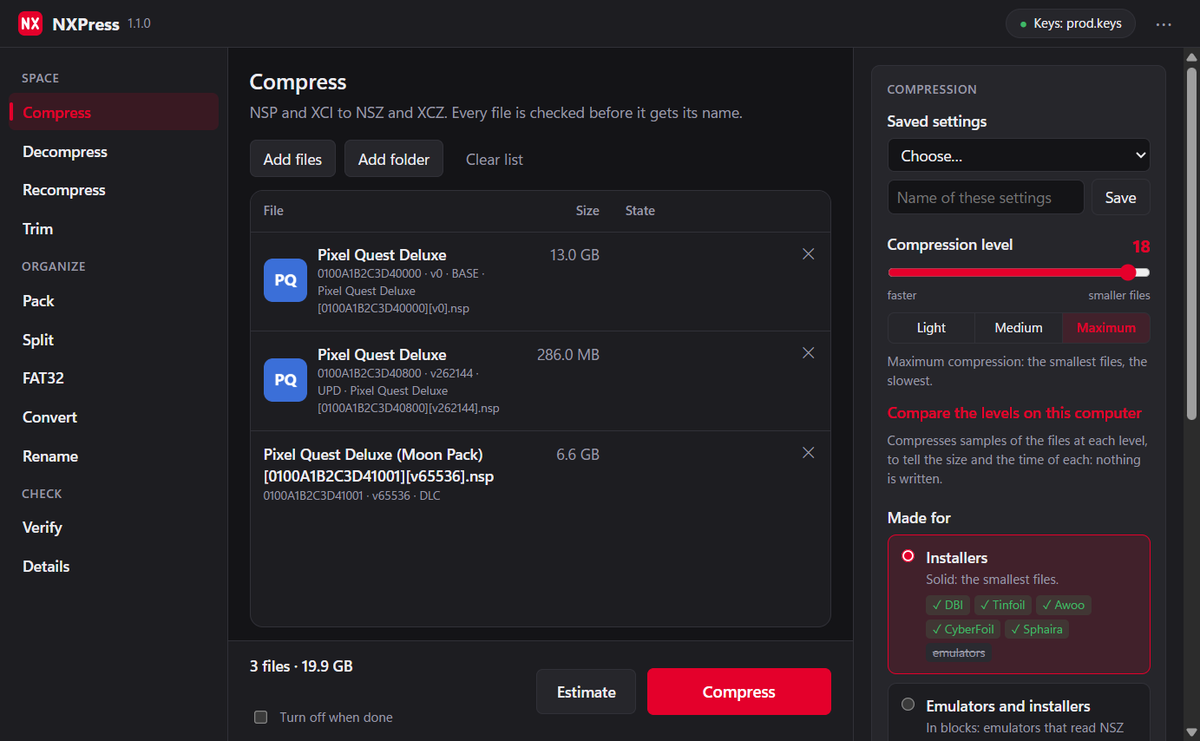
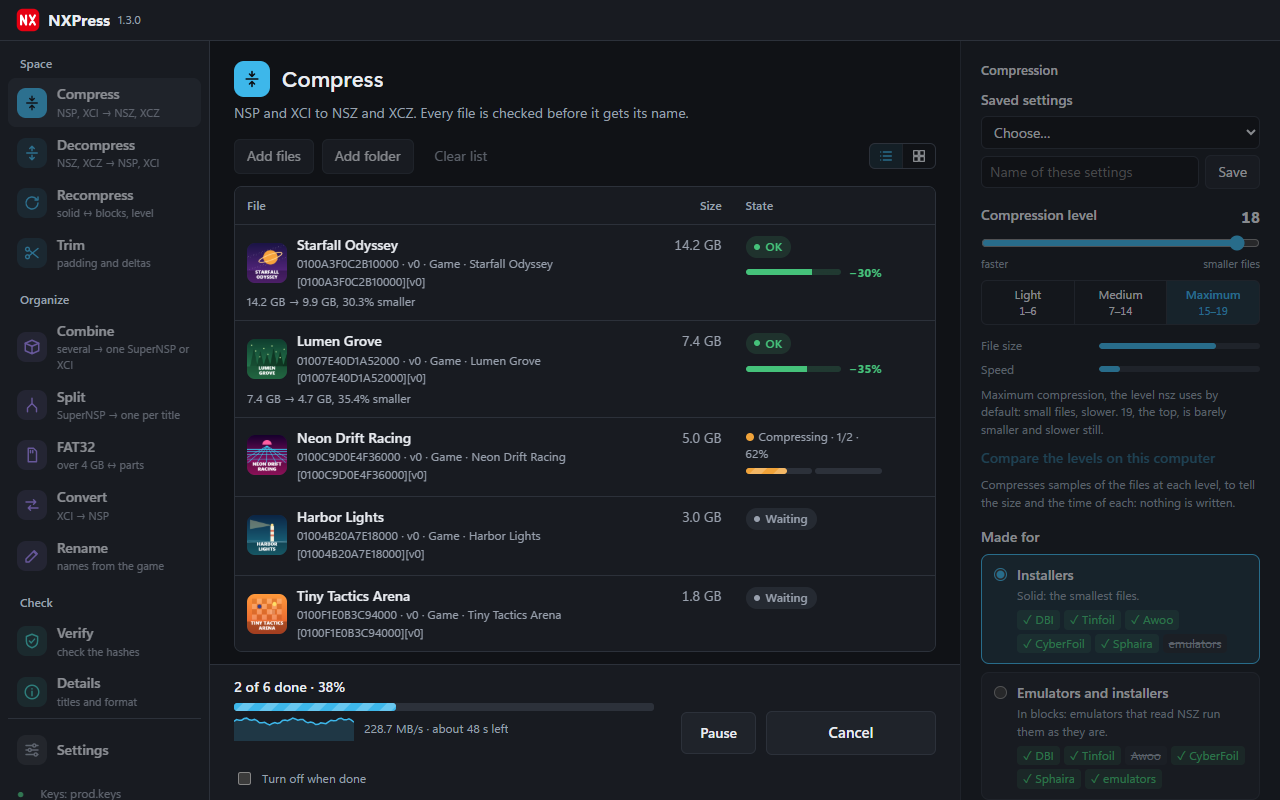
New screenshots and demo of the window of 1.3.0, and the README updated to it
The screenshots show each scene in the light and the dark theme, as GitHub shows the one of the
theme of the reader: Compress at work, the card at the end, Combine, Details, Rename, the grid of
covers and Settings. The README tells what 1.3.0 brought to the window, how to open NXPress on
macOS and Linux, the levels, two new examples of the command line and the wiki.

diff --git a/README.md b/README.md
@@ -17,33 +17,43 @@ Compresses and decompresses Nintendo Switch NSP and XCI files to NSZ and XCZ, mu
 
 It is one program with no Python or other dependencies. Opened with no arguments it shows a window: drop files or folders on it, choose what to do and start. With arguments it is a command line that takes the same options as nsz, so it can replace it in scripts and in tools that call nsz.
 
-![NXPress compressing a file](docs/demo.gif)
+![NXPress compressing four games: the list with their covers, the bar of each file and the space saved at the end](docs/demo.gif)
 
 ## Download
 
-The program for Windows, macOS (Apple chip or Intel) and Linux (PC or ARM) is on the [releases page](https://github.com/DeLFuS77/NXPress/releases/latest). It needs your own `prod.keys`, dumped from your own console; none is included. Tested with DBI. On Linux, unpack it and run `install.sh` to put NXPress in the menu of applications with its icon.
+The program for Windows, macOS (Apple chip or Intel) and Linux (PC or ARM) is on the [releases page](https://github.com/DeLFuS77/NXPress/releases/latest). It needs your own `prod.keys`, dumped from your own console; none is included. Tested with DBI.
+
+On macOS the app is not notarized: the first time, open it with right click, Open (or allow it in System Settings, Privacy & Security). On Linux it needs GTK 3 and WebKitGTK 4.1, which most desktops have; once unpacked, `install.sh` puts NXPress in the menu of applications with its icon.
 
 For Windows there is also a portable download (`…-windows-x64-portable.zip`): a folder with the program and its `settings` folder, ready to unpack anywhere. Any copy becomes portable with a folder named `settings` next to the program: NXPress then keeps its settings, its window and the files already checked in it, and nothing in your user folders. With `prod.keys` next to the program as well, the whole folder can go on a USB stick.
 
 ## The window
 
-![The list with the games and the settings of a compression](docs/screenshots/compress-light.png)
+<picture>
+  <source media="(prefers-color-scheme: dark)" srcset="docs/screenshots/compress-dark.png">
+  <img src="docs/screenshots/compress-light.png" alt="Compress at work: the list of games with their covers, the bar of each file in its steps, the speed and the time left">
+</picture>
 
-Drop files or folders on the window, or on NXPress itself; on Windows it can add itself to "Send to" in the Explorer, so the files chosen there open in it. Each game shows with its name, icon, title ID and version. Its modes are grouped by what they are for:
+Drop files or folders on the window, or on NXPress itself; on Windows it can add itself to "Send to" in the Explorer, so the files chosen there open in it. Each game shows with its cover, name, title ID and version, in a list or as a grid of covers; the list sorts by name, size or state, and each file has a menu on a right click. The menu on the left groups the sections by what they are for:
 
 - **Space**: compress, decompress, recompress (solid or in blocks, at another level, without the NSP in between) and trim (the padding of XCI files and the delta fragments of updates)
-- **Organize**: combine a game, its updates and DLC into one SuperNSP or into its XCI, or a whole collection into a SuperNSP per game; split them back, byte for byte; FAT32 parts for microSD cards; convert XCI to NSP; rename files by what they hold
+- **Organize**: combine a game, its updates and DLC into one SuperNSP or into its XCI, or a whole collection into a SuperNSP per game, named by a template; split them back, byte for byte; FAT32 parts for microSD cards; convert XCI to NSP; rename files by what they hold
 - **Check**: verify files by their hashes, by the signature of Nintendo or both, also against a DAT of No-Intro and others, and see the details of a file: its titles, how it is stored and what it works with
 
-![A compression done, with the space saved](docs/screenshots/compress-done.png)
+While it works, each file has its bar split in its steps (the work, then the check of what it wrote), the window tells the speed and the time left, and on Windows the button of the taskbar shows the progress. It can pause, keeps the computer awake, tells with a notice of the system when long work is done and can turn the computer off after. Before it starts it checks that the new files fit on each drive, and at the end a card tells the space saved and what saved the most. The files left unfinished when it was closed are offered when it opens again, and Copy report puts the result of every file on the clipboard, to paste in an issue.
 
-While it works it can pause, keeps the computer awake, tells with a notice of the system when long work is done and can turn the computer off after. The files left unfinished when it was closed are offered when it opens again, and Copy report puts the result of every file on the clipboard, to paste in an issue.
+<picture>
+  <source media="(prefers-color-scheme: dark)" srcset="docs/screenshots/done-dark.png">
+  <img src="docs/screenshots/done-light.png" alt="The card at the end of a work: the space saved and the files that saved the most">
+</picture>
 
-| Details of a file | Rename by what a file holds |
+| Combine, a SuperNSP per game | Details of a file |
 |---|---|
-| ![Details](docs/screenshots/details.png) | ![Rename](docs/screenshots/rename.png) |
+| <picture><source media="(prefers-color-scheme: dark)" srcset="docs/screenshots/combine-dark.png"><img src="docs/screenshots/combine-light.png" alt="Combine: the games to combine, each with its files"></picture> | <picture><source media="(prefers-color-scheme: dark)" srcset="docs/screenshots/details-dark.png"><img src="docs/screenshots/details-light.png" alt="Details: each file beside its size as NSP or XCI, and what it works with"></picture> |
+| **Rename by what a file holds** | **The list as a grid of covers** |
+| <picture><source media="(prefers-color-scheme: dark)" srcset="docs/screenshots/rename-dark.png"><img src="docs/screenshots/rename-light.png" alt="Rename: the new name of each file, shown before anything is renamed"></picture> | <picture><source media="(prefers-color-scheme: dark)" srcset="docs/screenshots/grid-dark.png"><img src="docs/screenshots/grid-light.png" alt="The list as a grid of covers, filling up with the progress of each file"></picture> |
 
-It follows the light or dark theme of the system, or the one chosen in Settings, and speaks 11 languages: English, Spanish, French, German, Italian, Portuguese, Dutch, Russian, Japanese, Korean and Chinese.
+It follows the light or dark theme of the system, or the one chosen in Settings, and speaks 11 languages: English, Spanish, French, German, Italian, Portuguese, Dutch, Russian, Japanese, Korean and Chinese. Settings is a page of its own, with a sound when the work is done (the one of NXPress or one of your own), the last report and the keyboard shortcuts.
 
 NXPress goes on the internet for one thing only: the window asks GitHub whether a new version is out. It can be turned off in Settings; the command line never does it.
 
@@ -51,7 +61,9 @@ NXPress goes on the internet for one thing only: the window asks GitHub whether 
 
 A solid NSZ (the default) is the smallest and every installer takes it (DBI, Tinfoil, Awoo, CyberFoil, Sphaira). With `-B`, or "Emulators and installers" in the window, it is written in blocks, which emulators that read NSZ can run as it is, without installing it; every installer but Awoo takes it too. XCZ files are always in blocks, as nsz writes them.
 
-Every new file is written under a hidden name, checked, and only then given its name. With `--rm-source` the original is deleted only once its new file passed the check.
+The level goes from 1 to 19, in three bands: Light 1–6, Medium 7–14 and Maximum 15–19. 18, the default of nsz, is also the one of NXPress. "Compare the levels on this computer" tells the size and the time of each level from samples of the files, and "Measure this PC" tries threads and files at once and keeps the fastest.
+
+Every new file is written under a hidden name, saved to the disk, checked, and only then given its name. With `--rm-source` the original is deleted only once its new file passed the check.
 
 ## Command line
 
@@ -76,6 +88,8 @@ nxpress -V --dat switch.dat games   tell which files are dumps a DAT (No-Intro) 
 nxpress --fat32 game.nsp            a file over 4 GB to a folder of parts for a FAT32 microSD (and back)
 nxpress --rename "{name} [{id}][v{version}]" games   rename files by what they hold
 nxpress -C --watch -o out inbox     compress every new file copied into inbox, until Ctrl+C
+nxpress -C --low-priority games     compress at low priority, so the computer stays responsive
+nxpress -C --recursive games        take the files in the folders inside too
 ```
 
 `nxpress --help` lists every option. The options of nsz work the same, so NXPress can take its place in scripts.
@@ -92,6 +106,10 @@ go build -tags desktop,production -ldflags "-s -w" .                            
 ```
 
 The screenshots show made-up games.
+
+## More
+
+The [wiki](https://github.com/DeLFuS77/NXPress/wiki) has a guide to each section, which installers and emulators read each format, every option of the command line, frequent questions and what to do when something fails.
 
 ## License
 
